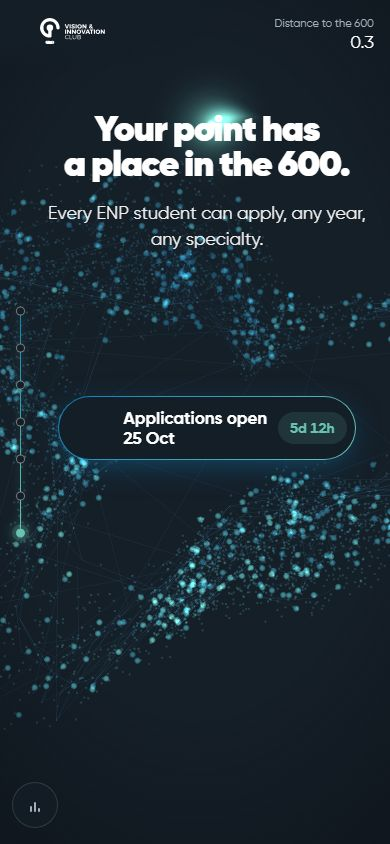
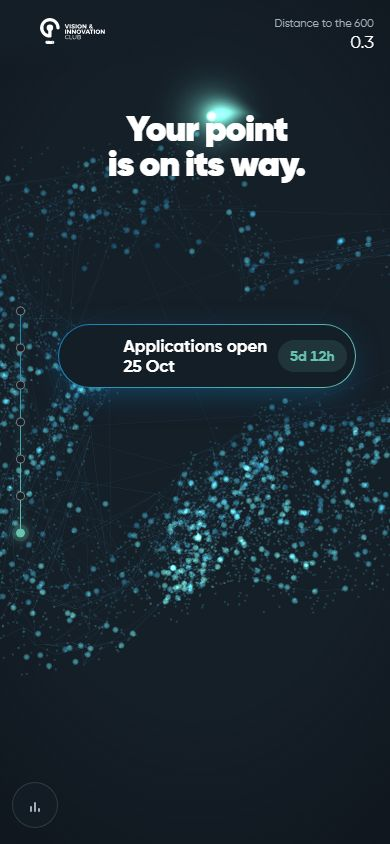
Prototype #17: headline 'Your point is on its way.', no sub line before opening, reshoot

diff --git a/prototype/act-close/index.html b/prototype/act-close/index.html
@@ -89,6 +89,7 @@ h2.big{font-weight:900;font-size:var(--t-title);line-height:.98;letter-spacing:-
 h2.big .ln{display:block;overflow:hidden;padding-bottom:.08em;margin-bottom:-.08em}
 h2.big .ln>span{display:block;will-change:transform;transform:translateY(calc((1 - var(--l1,1)) * 105%))}
 h2.big .ln:nth-child(2)>span{transform:translateY(calc((1 - var(--l2,1)) * 105%))}
+.sub[hidden]{display:none}
 .sub{margin-top:20px;font-size:var(--t-lead);line-height:1.45;color:var(--gray);max-width:34ch;opacity:var(--sub,1);transform:translateY(calc((1 - var(--sub,1)) * 14px))}
 .cta{align-self:start;margin-top:clamp(120px,19svh,190px);opacity:var(--pill,1);transform:translateY(calc((1 - var(--pill,1)) * 24px))}
 .cta .note{margin-top:18px;font-size:var(--t-cap);color:var(--mute)}
@@ -159,7 +160,7 @@ footer::before{content:"";position:absolute;left:0;right:0;top:0;height:1px;back
 
 <section class="close" id="close" aria-labelledby="ctitle">
   <div class="stick">
-    <h2 class="big" id="ctitle"><span class="ln"><span>Your point has</span></span><span class="ln"><span>a place in the 600.</span></span></h2>
+    <h2 class="big" id="ctitle"><span class="ln"><span>Your point</span></span><span class="ln"><span>is on its way.</span></span></h2>
     <p class="sub" id="sub">Every ENP student can apply, any year, any specialty.</p>
     <div class="cta" id="cta">
       <a class="pill" id="cpill" href="#"></a>
@@ -231,6 +232,7 @@ function paint(){
   pillEl.innerHTML = open
     ? `<span class="slot"></span><span class="lab">Apply</span><span class="go">${arrow}</span>`
     : `<span class="slot"></span><span class="lab">Applications open 25 Oct</span><span class="chip">${left()}</span>`;
+  $('sub').hidden = !open;
   pillEl.href = open ? '#apply-url' : 'https://www.instagram.com/vic.enp/';   // APPLY_URL in the build; before opening the CTA is @vic.enp
 }
 paint(); setInterval(paint, 30000);
